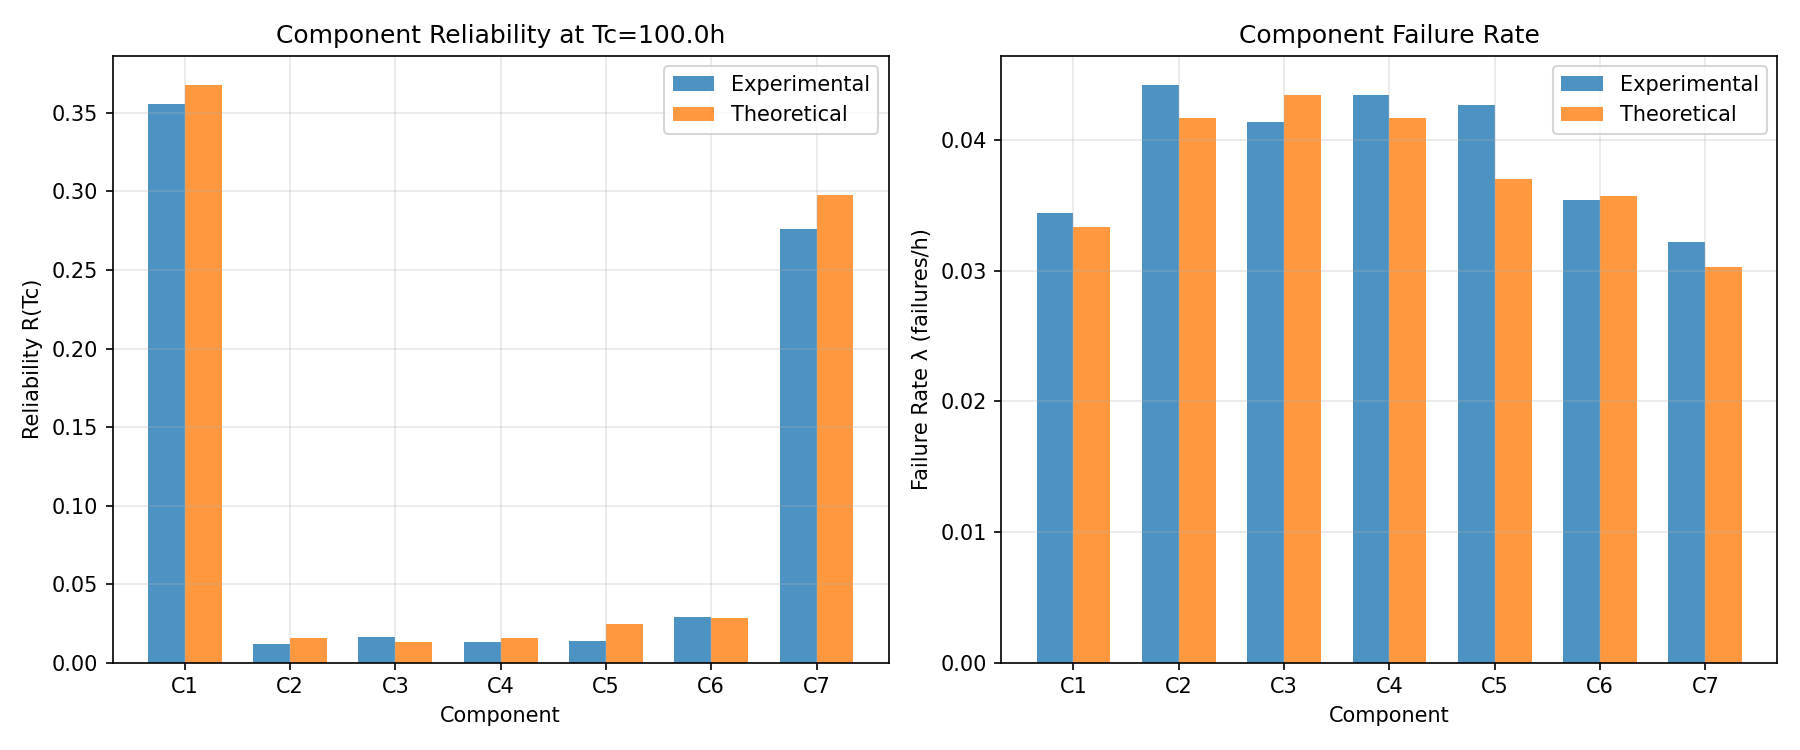
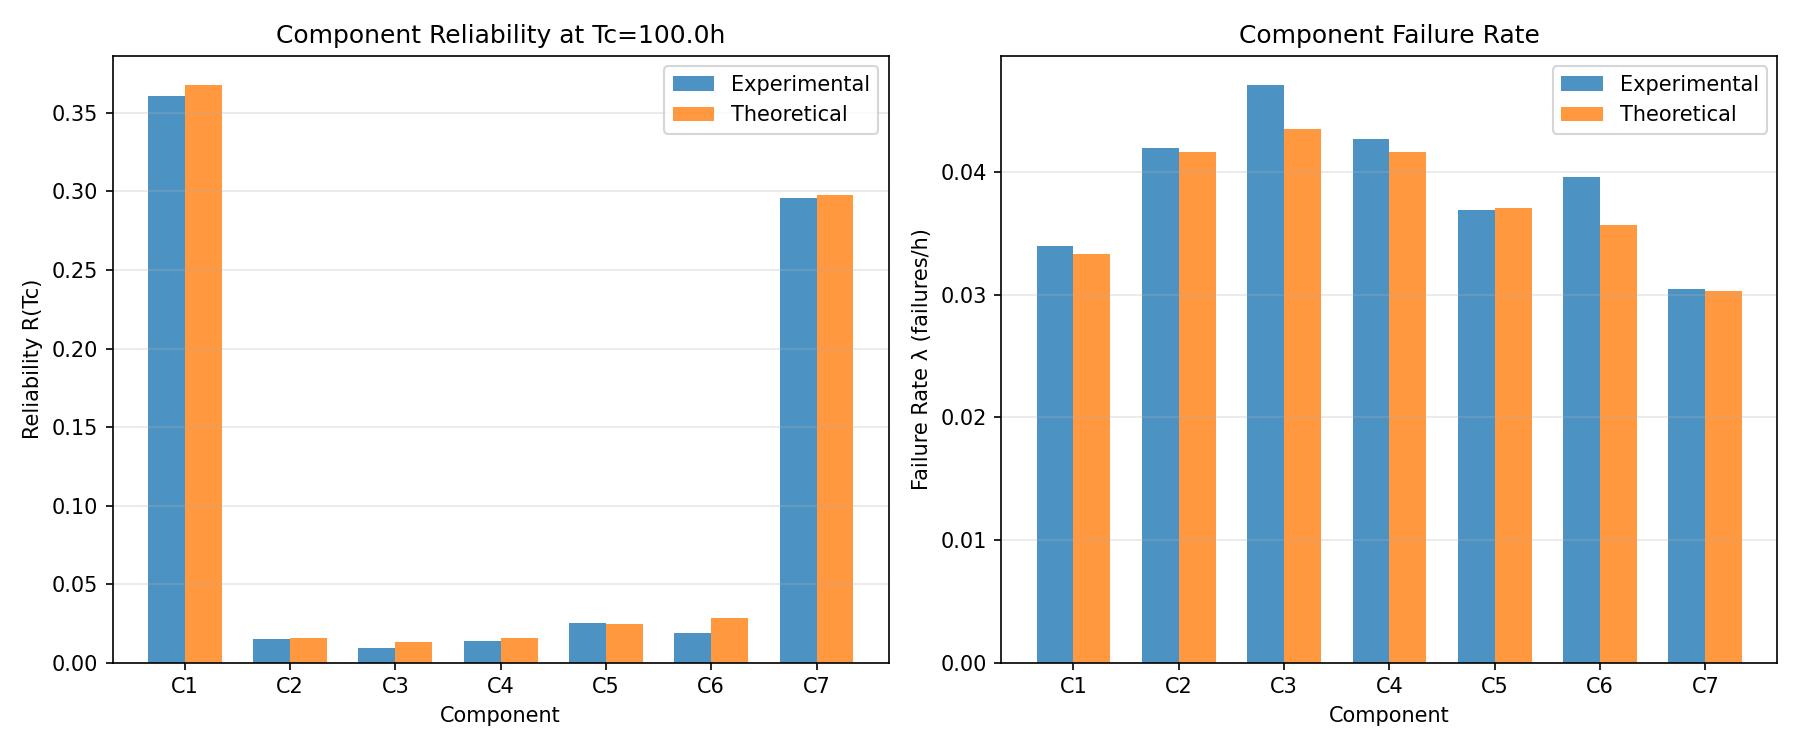
improved metrics and performance for simulation_no_repair

diff --git a/src/simulation_no_repair.py b/src/simulation_no_repair.py
@@ -7,48 +7,6 @@ import sys
 sys.path.insert(0, os.path.abspath(os.path.join(os.path.dirname(__file__), '..')))
 from config import COMPONENTS_DATA, Tc, Ts, DT, N_SIMS, ensure_output_dir, print_header
 
-# =============================================================================
-# SIMULATION FUNCTIONS
-# =============================================================================
-
-# Function to simulate a component until first failure (without repair)
-# Returns the failure time or "None" if it didn't fail
-def simulate_component(mttf, duty_cycle, duration, dt):
-    # Calculate failure rate λ from MTTF (λ = 1/MTTF)
-    lam = 1.0 / mttf
-    
-    # Create time axis with step dt
-    time_axis = np.arange(0, duration, dt)
-    status_history = []
-    failure_time = None
-    failed = False
-    
-    # Simulation loop for each time step
-    for t in time_axis:
-        if failed:
-            # If already failed, remains in failed state (-1)
-            status_history.append(-1)
-        else:
-            # Check if component should be active (duty cycle)
-            # Random number [0,1) < DC → active
-            is_active = np.random.rand() < duty_cycle
-            
-            if is_active:
-                # Calculate failure probability in interval dt
-                # From exponential distribution: P(fail in dt) = 1 - e^(-λ·dt)
-                if np.random.rand() < (1 - np.exp(-lam * dt)):
-                    # Failure! Record time and change state
-                    failed = True
-                    failure_time = t
-                    status_history.append(-1)  # State: Failed
-                else:
-                    status_history.append(1)   # State: Operational
-            else:
-                # Non-operational due to duty cycle (not failure)
-                status_history.append(0)
-    
-    return time_axis, np.array(status_history), failure_time
-
 # Function to simulate the system
 # Returns the system failure time or "None"
 def simulate_system(components_db, duration, dt):
@@ -56,6 +14,7 @@ def simulate_system(components_db, duration, dt):
     # Initialize states of all components
     time_axis = np.arange(0, duration, dt)
     comp_states = {name: [] for name in components_db}
+    comp_failure_times = {name: None for name in components_db}  # Track component failure times
     failed = {name: False for name in components_db}  # Which have failed
     current = {name: 1 for name in components_db}     # Current state
     system_history = []
@@ -78,6 +37,7 @@ def simulate_system(components_db, duration, dt):
                     if np.random.rand() < (1 - np.exp(-lam * dt)):
                         failed[name] = True
                         current[name] = -1
+                        comp_failure_times[name] = t  # Record component failure time
                     else:
                         current[name] = 1
                 else:
@@ -109,110 +69,119 @@ def simulate_system(components_db, duration, dt):
             system_failure_time = t
             system_failed = True
     
-    return time_axis, np.array(system_history), comp_states, system_failure_time
+    return time_axis, np.array(system_history), comp_states, system_failure_time, comp_failure_times
 
-# =============================================================================
-# ANALYSIS AND PLOTTING FUNCTIONS
-# =============================================================================
-
-# Function to analyze each component's reliability
-# Calculates R(Tc) and λ Theoretical and Experimental for each component
-def run_component_analysis(components_db, duration, dt, n_sims):
-
-    print_header("COMPONENT RELIABILITY ANALYSIS (No Repair)", "=", 70)
-    results = []
+# Combined function to analyze both component and system reliability
+# Extracts component metrics over full Tc duration and system metrics over first Ts duration
+def run_combined_analysis(components_db, Tc, Ts, dt, n_sims):
+    print(f"\nRunning Combined Analysis (Tc={Tc}h, Ts={Ts}h)...")
+    
+    # Storage for component failure times (for component analysis at Tc)
+    comp_failure_times_Tc = {name: [] for name in components_db}
+    
+    # Storage for system failure times (for system analysis at Ts)
+    system_failure_times_Ts = []
+    
+    # Sample data for visualization
+    sample_data = None
+    
+    # Time step count for Ts cutoff
+    Ts_steps = int(Ts / dt)
+    
+    # Execute N independent simulations for full Tc duration
+    for i in range(n_sims):
+        time_axis, sys_hist, comp_states, sys_ft, comp_ft = simulate_system(components_db, Tc, dt)
+        
+        # Progress tracking
+        if (i + 1) % 100 == 0:
+            print(f"\r(Completed {i+1}/{n_sims} simulations)", end='', flush=True)
+        
+        # Store sample data from first simulation
+        if i == 0:
+            # Store full data for component timeline, but truncate system data to Ts for system plot
+            sample_data = (time_axis[:Ts_steps], sys_hist[:Ts_steps], 
+                          {name: states[:Ts_steps] for name, states in comp_states.items()})
+        
+        # Collect component failure times (for Tc analysis)
+        for name, ft in comp_ft.items():
+            if ft is not None:
+                comp_failure_times_Tc[name].append(ft)
+        
+        # Collect system failure time only if it occurred within Ts
+        if sys_ft is not None and sys_ft < Ts:
+            system_failure_times_Ts.append(sys_ft)
+    
+    # --- Calculate Component Metrics ---
+    print(f"\n\nCOMPONENT RELIABILITY:")
+    comp_results = []
     
     for comp_name, specs in components_db.items():
         mttf, dc = specs['MTTF'], specs['DC']
-        failure_times = []
+        failure_times = comp_failure_times_Tc[comp_name]
         
-        # Execute N independent simulations
-        for i in range(n_sims):
-            _, _, ft = simulate_component(mttf, dc, duration, dt)
-            if ft is not None:
-                failure_times.append(ft)
-        
-        # --- Calculate Metrics ---
-
         # Experimental Reliability R(Tc): Percentage of simulations without failure
         failures = len(failure_times)
         R_exp = (n_sims - failures) / n_sims
         
         # Theoretical Reliability: R(t) = e^(-λ·DC·t)
-        R_theo = np.exp(-dc * duration / mttf)
+        R_theo = np.exp(-dc * Tc / mttf)
         
         # Theoretical Failure rate: λ = 1/MTTF
         lam_theo = 1.0 / mttf
         
         # Experimental Failure rate: R(t) = e^(-λ·DC·t) → λ = -ln(R)/(DC·t)
-        lam_exp = -np.log(R_exp) / (dc * duration) if R_exp > 0 and dc > 0 else 0
+        lam_exp = -np.log(R_exp) / (dc * Tc) if R_exp > 0 and dc > 0 else 0
         
         print(f"\n{comp_name}: MTTF={mttf}h, DC={dc}")
-        print(f"  R(Tc={duration}h): Exp={R_exp:.4f}, Theo={R_theo:.4f}, Error={abs(R_exp-R_theo)/R_theo*100:.1f}%")
-        print(f"  λ: Exp={lam_exp:.6f}, Theo={lam_theo:.6f} failures/h, Error={abs(lam_exp-lam_theo)/lam_theo*100:.1f}%")
+        print(f"  R: \tExp={R_exp:.4f}, \tTheo={R_theo:.4f}, \tError={abs(R_exp-R_theo)/R_theo*100:.1f}%")
+        print(f"  λ: \tExp={lam_exp:.4f}, \tTheo={lam_theo:.4f}, \tError={abs(lam_exp-lam_theo)/lam_theo*100:.1f}%")
         
-        results.append({
+        comp_results.append({
             'component': comp_name, 'R_exp': R_exp, 'R_theo': R_theo,
             'lambda_exp': lam_exp, 'lambda_theo': lam_theo,
             'failures': failures, 'failure_times': failure_times
         })
     
-    return results
-
-# Function to analyze system reliability
-# Calculates R(Ts), λ, and MTTF (Theoretical and Experimental) for the system
-def run_system_analysis(components_db, duration, dt, n_sims):
-    print_header("SYSTEM RELIABILITY ANALYSIS (No Repair)", "=", 70)
+    # --- Calculate System Metrics ---
+    print(f"\nSYSTEM RELIABILITY:")
     
-    failure_times = []
-    sample_data = None
-    
-    # Execute N independent system simulations
-    for i in range(n_sims):
-        time_axis, sys_hist, comp_states, ft = simulate_system(components_db, duration, dt)
-        if i == 0:
-            sample_data = (time_axis, sys_hist, comp_states)
-        if ft is not None:
-            failure_times.append(ft)
-        if (i + 1) % 200 == 0:
-            print(f"Completed {i+1}/{n_sims} simulations...")
-    
-    # --- Calculate Metrics ---
-    
-    # Experimental Reliability R(Ts): Percentage of simulations without failure
-    failures = len(failure_times)
+    # Experimental Reliability R(Ts): Percentage of simulations without failure within Ts
+    failures = len(system_failure_times_Ts)
     R_exp = (n_sims - failures) / n_sims
     
     # Experimental MTTF: Mean of all failure times
-    MTTF_exp = np.mean(failure_times) if failure_times else float('inf')
+    MTTF_exp = np.mean(system_failure_times_Ts) if system_failure_times_Ts else float('inf')
     
     # Experimental Failure rate: λ = -ln(R)/t
-    lam_exp = -np.log(R_exp) / duration if R_exp > 0 else float('inf')
+    lam_exp = -np.log(R_exp) / Ts if R_exp > 0 else float('inf')
     
-    #Theoretical System Reliability
+    # Theoretical System Reliability
     def R_comp(mttf, dc, t):
         return np.exp(-dc * t / mttf)
-    R_C = {name: R_comp(s['MTTF'], s['DC'], duration) for name, s in components_db.items()}
+    R_C = {name: R_comp(s['MTTF'], s['DC'], Ts) for name, s in components_db.items()}
     R_block2 = 1 - (1-R_C['C2']) * (1-R_C['C3']) * (1-R_C['C4'])
     R_block3 = 1 - (1-R_C['C5']) * (1-R_C['C6'])
     R_theo = R_C['C1'] * R_block2 * R_block3 * R_C['C7']
     
     # Theoretical Failure rate: λ = -ln(R)/t
-    lam_theo = -np.log(R_theo) / duration if R_theo > 0 else float('inf')
+    lam_theo = -np.log(R_theo) / Ts if R_theo > 0 else float('inf')
     
     # Theoretical MTTF: MTTF = 1/λ
     MTTF_theo = 1 / lam_theo if lam_theo != float('inf') and lam_theo > 0 else float('inf')
     
-    print(f"\nSystem R(Ts={duration}h): Exp={R_exp:.4f}, Theo={R_theo:.4f}, Error={abs(R_exp-R_theo)/R_theo*100:.1f}%")
-    print(f"System λ: Exp={lam_exp:.6f}, Theo={lam_theo:.6f} failures/h, Error={abs(lam_exp-lam_theo)/lam_theo*100:.1f}%")
-    print(f"System MTTF: Exp={MTTF_exp:.2f}h, Theo={MTTF_theo:.2f}h, Error={abs(MTTF_exp-MTTF_theo)/MTTF_theo*100:.1f}%" if MTTF_exp != float('inf') else f"System MTTF: Theo={MTTF_theo:.2f}h (No failures observed)")
+    print(f"\nSystem R: \tExp={R_exp:.4f}, \tTheo={R_theo:.4f}, \tError={abs(R_exp-R_theo)/R_theo*100:.1f}%")
+    print(f"System λ: \tExp={lam_exp:.4f}, \tTheo={lam_theo:.4f}, \tError={abs(lam_exp-lam_theo)/lam_theo*100:.1f}%")
+    print(f"System MTTF: \tExp={MTTF_exp:.2f}h, \tTheo={MTTF_theo:.2f}h, \tError={abs(MTTF_exp-MTTF_theo)/MTTF_theo*100:.1f}%" if MTTF_exp != float('inf') else f"System MTTF: Theo={MTTF_theo:.2f}h (No failures observed)")
     
-    return {
+    sys_results = {
         'R_exp': R_exp, 'R_theo': R_theo, 
         'MTTF_exp': MTTF_exp, 'MTTF_theo': MTTF_theo,
         'lambda_exp': lam_exp, 'lambda_theo': lam_theo,
-        'failure_times': failure_times, 'sample_data': sample_data
+        'failure_times': system_failure_times_Ts, 'sample_data': sample_data
     }
+    
+    return comp_results, sys_results
+
 
 # VISUALIZATION
 def create_component_plots(results, output_dir):
@@ -272,7 +241,7 @@ def create_system_plots(results, output_dir):
         ax2.legend()
     ax2.set_xlabel('System Failure Time (hours)')
     ax2.set_ylabel('Frequency')
-    ax2.set_title('System Failure Time Distribution')
+    ax2.set_title('System Failure Time Distribution (up to)')
     ax2.grid(True, alpha=0.3)
     
     plt.tight_layout()
@@ -328,12 +297,11 @@ def create_timeline_plot(sample_data, output_dir):
 if __name__ == "__main__":
     OUTPUT_DIR = ensure_output_dir('no_repair')
     
-    # Component analysis
-    comp_results = run_component_analysis(COMPONENTS_DATA, Tc, DT, N_SIMS)
-    create_component_plots(comp_results, OUTPUT_DIR)
+    # Combined analysis - runs simulations once for Tc and extracts both component and system metrics
+    comp_results, sys_results = run_combined_analysis(COMPONENTS_DATA, Tc, Ts, DT, N_SIMS)
     
-    # System analysis
-    sys_results = run_system_analysis(COMPONENTS_DATA, Ts, DT, N_SIMS)
+    # Create plots
+    create_component_plots(comp_results, OUTPUT_DIR)
     create_system_plots(sys_results, OUTPUT_DIR)
     create_timeline_plot(sys_results['sample_data'], OUTPUT_DIR)
     

diff --git a/src/simulation_with_repair.py b/src/simulation_with_repair.py
@@ -167,7 +167,7 @@ def simulate_system(components_db, duration, dt):
 
 # ANALYSIS
 def run_component_analysis(components_db, duration, dt, n_sims):
-    print_header("COMPONENT ANALYSIS WITH REPAIR", "=", 70)
+    print(f"\nCOMPONENT RELIABILITY:")
     results = []
     
     for comp_name, specs in components_db.items():
@@ -209,7 +209,7 @@ def run_component_analysis(components_db, duration, dt, n_sims):
     return results
 
 def run_system_analysis(components_db, duration, dt, n_sims):
-    print_header("SYSTEM ANALYSIS WITH REPAIR", "=", 70)
+    print(f"\nSYSTEM RELIABILITY:")
     
     all_up_times, all_down_times = [], []
     total_up, total_down = 0, 0
@@ -224,8 +224,8 @@ def run_system_analysis(components_db, duration, dt, n_sims):
         total_up += np.sum(sys_hist == 1) * dt
         total_down += np.sum(sys_hist == 0) * dt
         
-        if (i + 1) % 200 == 0:
-            print(f"Completed {i+1}/{n_sims} simulations...")
+        #if (i + 1) % 200 == 0:
+            #print(f"Completed {i+1}/{n_sims} simulations...")
     
     MTBF = np.mean(all_up_times) if all_up_times else float('inf')
     MUT = MTBF

diff --git a/main.py b/main.py
@@ -5,13 +5,13 @@ import subprocess
 from config import print_header, print_simulation_info
 
 def run_no_repair():
-    print_header("SIMULATION WITHOUT REPAIR (λ, R, MTTF)", "=", 70)
+    print_header("SIMULATION WITHOUT REPAIR", "-", 70)
     result = subprocess.run([sys.executable, "src/simulation_no_repair.py"], capture_output=False, text=True)
     if result.returncode != 0:
         raise Exception(f"Simulation failed with return code {result.returncode}")
 
 def run_with_repair():
-    print_header("SIMULATION WITH REPAIR (MTBF, MUT, MTTR, A)", "=", 70)
+    print_header("SIMULATION WITH REPAIR", "-", 70)
     result = subprocess.run([sys.executable, "src/simulation_with_repair.py"], capture_output=False, text=True)
     if result.returncode != 0:
         raise Exception(f"Simulation failed with return code {result.returncode}")

diff --git a/config.py b/config.py
@@ -14,7 +14,7 @@ COMPONENTS_DATA = {
 # Simulation Parameters
 Tc = 100.0       # Component study time
 Ts = 30.0        # System study time
-DT = 0.01        # Time step (hours)
+DT = 0.1        # Time step (hours)
 N_SIMS = 1000    # Number of simulations
 
 # Results directories
